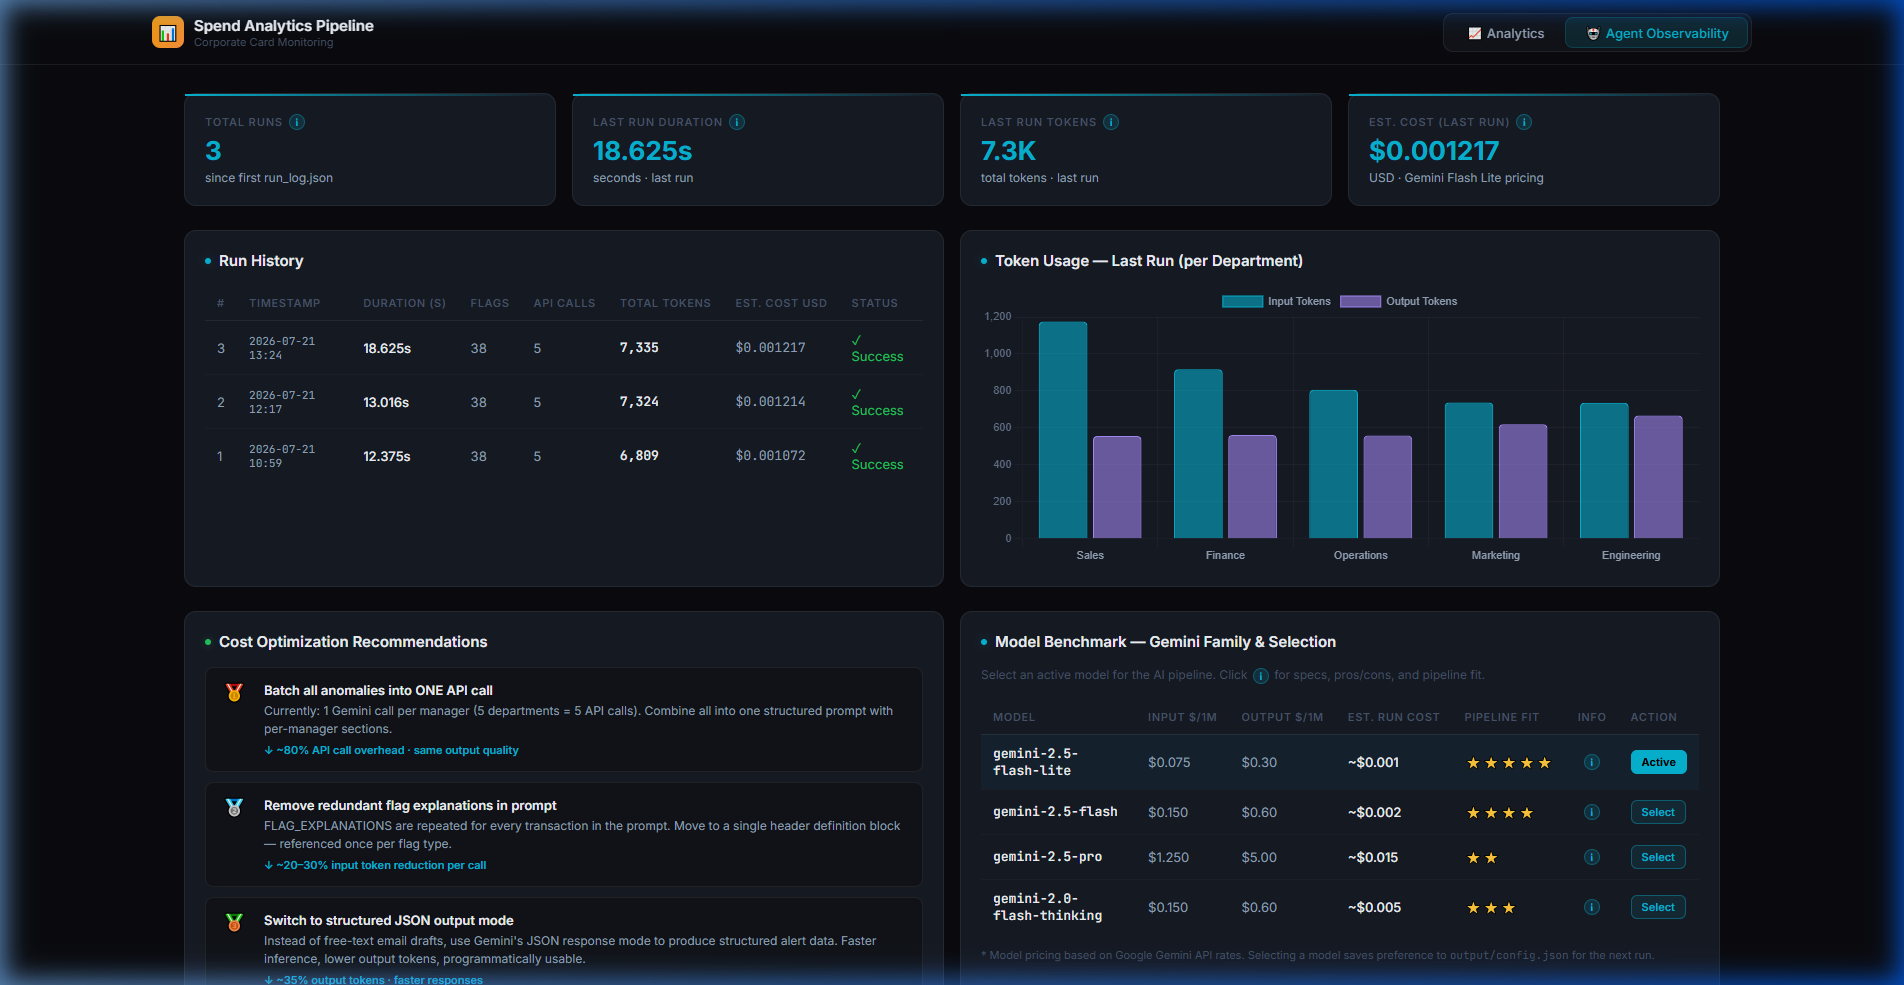
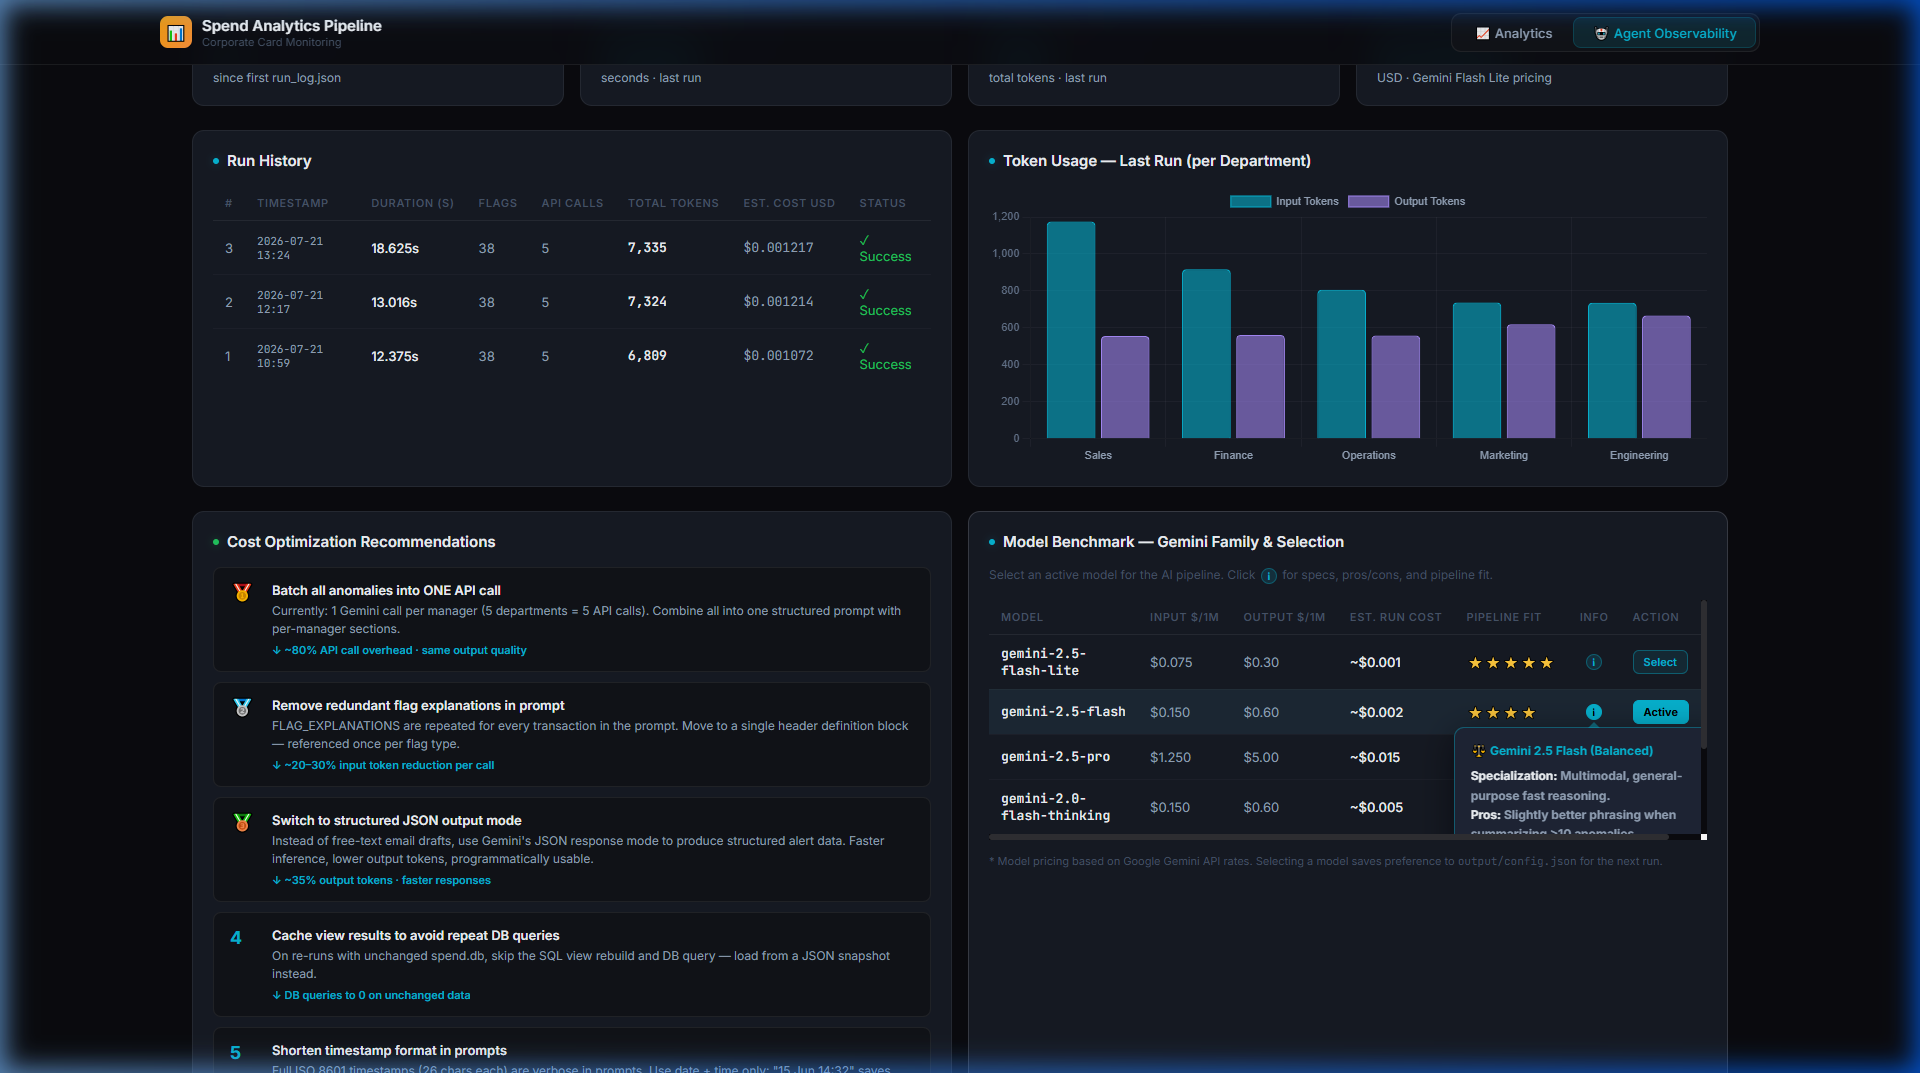
docs(dashboard): add privacy mode note to README and update demo assets
Add GDPR privacy note explaining synthetic data usage and interactive Privacy Mode capabilities. Update README demo animation and high-res static screenshots to showcase active Privacy Mode blur across Tab 1 and model specification controls in Tab 2.

diff --git a/README.md b/README.md
@@ -21,6 +21,11 @@
 
 ## Dashboard Preview
 
+> 🔒 **Privacy & Data Protection Note**: 
+> All employee and manager names shown in this demo are 100% synthetic (generated programmatically using Python's `Faker` library with German locale). 
+> 
+> To demonstrate enterprise GDPR compliance and secure screen-sharing capabilities, the dashboard includes an interactive **Privacy Mode (🔒)** toggle that instantly blurs all personal names and identifiers across views and detail modals.
+
 ![Spend Analytics Dashboard Interactive Demo](docs/assets/dashboard_demo.webp)
 
 ---